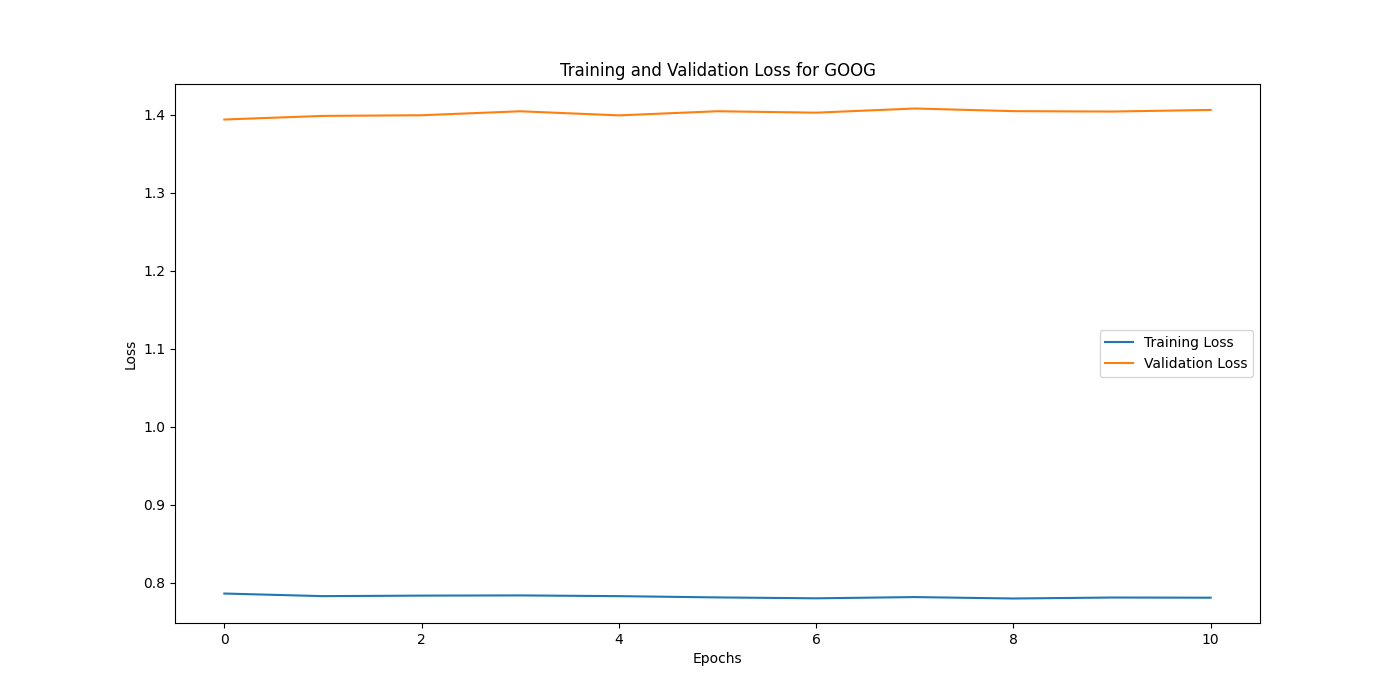
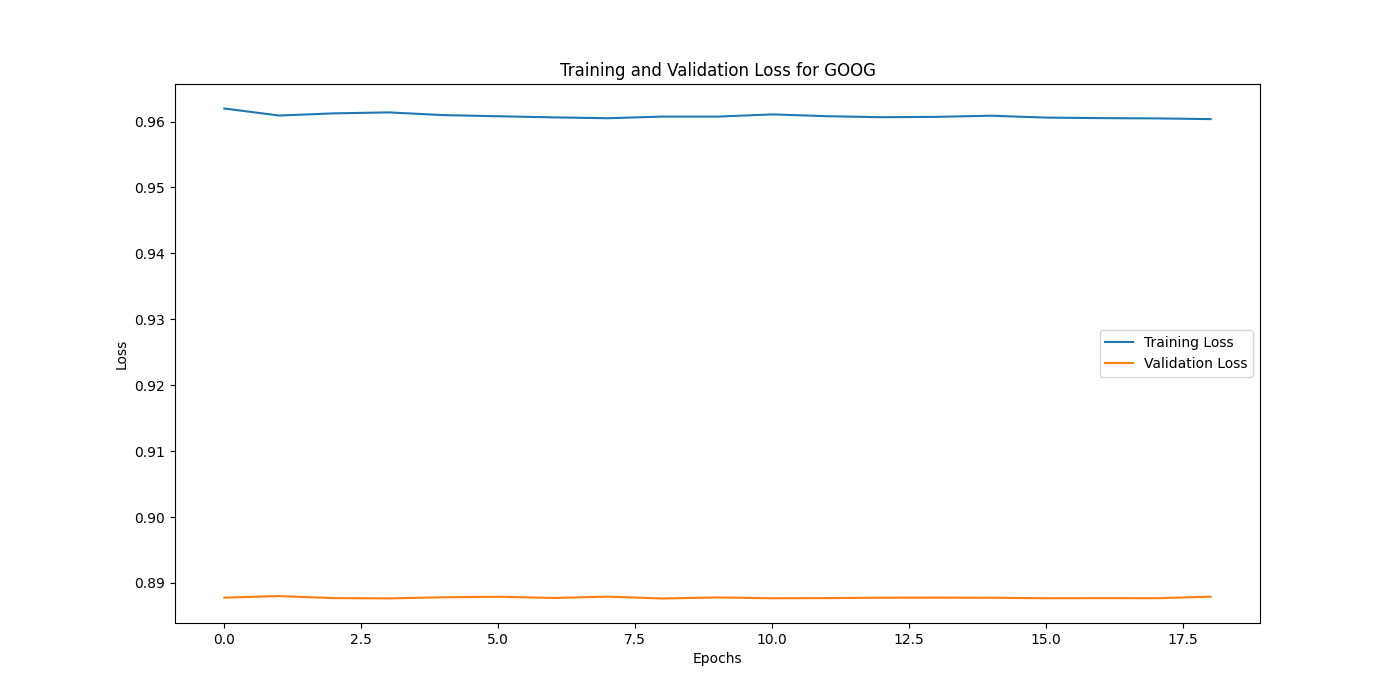
changes to the model training

diff --git a/model/model_eval/returns_model.py b/model/model_eval/returns_model.py
@@ -51,7 +51,7 @@ def train_and_save_model(stock):
 
     X, y = create_sequences(scaled_log_returns, seq_length)
 
-    X_train, X_test, y_train, y_test = train_test_split(X, y, test_size=0.2, shuffle=False)
+    X_train, X_test, y_train, y_test = train_test_split(X, y, test_size=0.2, shuffle=True)
 
     model = Sequential()
     model.add(LSTM(100, return_sequences=True, input_shape=(seq_length, 1)))
